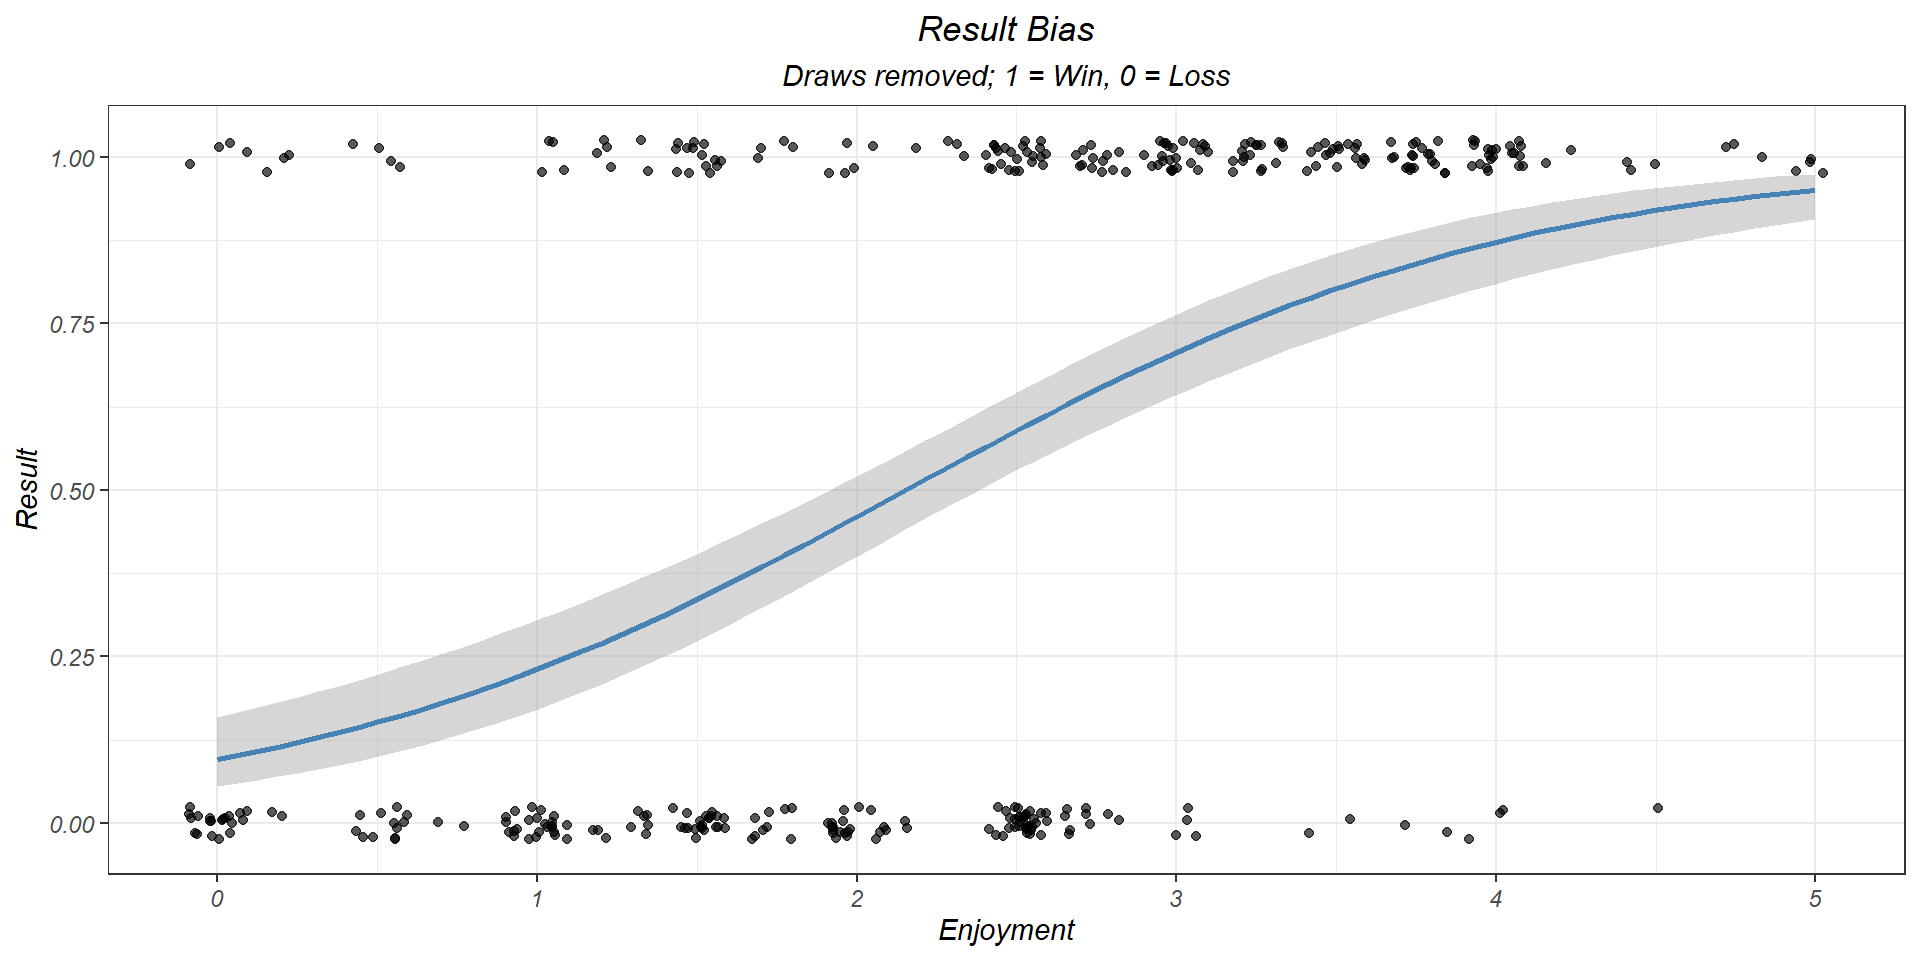
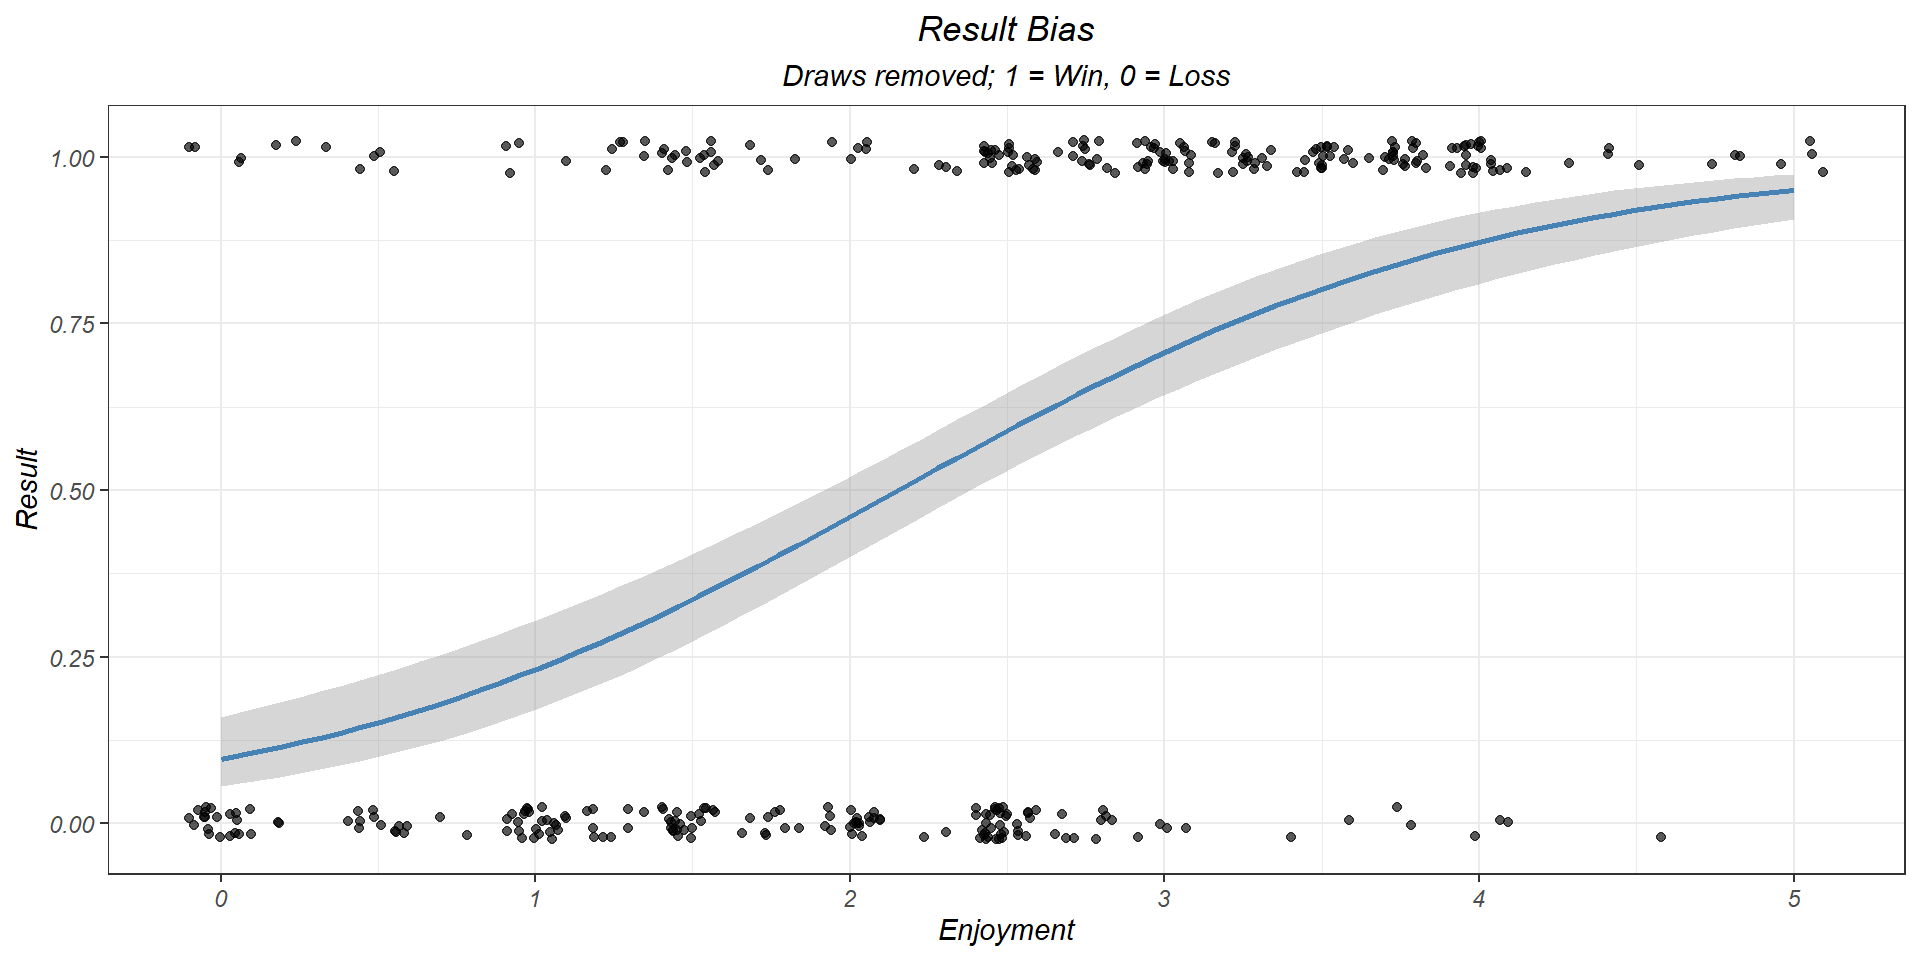
basil redo

diff --git a/CompAnalysis_Basil.html b/CompAnalysis_Basil.html
@@ -283,12 +283,12 @@ $(document).ready(function () {
   </script>
 </div>
 <p><strong>Map Rankings</strong>
-<img src="CompAnalysis_Basil_files/figure-html/unnamed-chunk-5-1.png" width="960" /></p>
+<img src="CompAnalysis_Basil_files/figure-html/unnamed-chunk-19-1.png" width="960" /></p>
 <p><strong>Enjoyment &amp; Result Bias</strong><br />
 Winrate and enjoyment are strongly correlated
-<img src="CompAnalysis_Basil_files/figure-html/unnamed-chunk-6-1.png" width="960" /><img src="CompAnalysis_Basil_files/figure-html/unnamed-chunk-6-2.png" width="960" /></p>
+<img src="CompAnalysis_Basil_files/figure-html/unnamed-chunk-20-1.png" width="960" /><img src="CompAnalysis_Basil_files/figure-html/unnamed-chunk-20-2.png" width="960" /></p>
 <p><strong>Variability throughout the week</strong>
-<img src="CompAnalysis_Basil_files/figure-html/unnamed-chunk-7-1.png" width="960" /></p>
+<img src="CompAnalysis_Basil_files/figure-html/unnamed-chunk-21-1.png" width="960" /></p>
 <p><strong>Does winrate vary throughout the week?</strong></p>
 <pre><code>## Analysis of Deviance Table (Type II tests)
 ## 
@@ -296,7 +296,7 @@ Winrate and enjoyment are strongly correlated
 ##         LR Chisq Df Pr(&gt;Chisq)
 ## Weekday   3.0414  4     0.5509</code></pre>
 <p><strong>Flex queue: Role probability throughout the week</strong></p>
-<p><img src="CompAnalysis_Basil_files/figure-html/unnamed-chunk-10-1.png" width="960" /></p>
+<p><img src="CompAnalysis_Basil_files/figure-html/unnamed-chunk-24-1.png" width="960" /></p>
 <p><strong>Does winrate vary between time of day?</strong><br />
 Morning: 8AM &lt;= Time &lt; 12PM<br />
 Afternoon: 12PM &lt;= Time &lt; 5PM<br />
@@ -312,7 +312,7 @@ Night: 12AM &lt;= Time &lt; 8AM<br />
 Rank disparity is calculated from (ActualRank - LobbyRank)<br />
 Therefore, positive disparity is Favoured, negative disparity is
 Underdog<br />
-<img src="CompAnalysis_Basil_files/figure-html/unnamed-chunk-12-1.png" width="960" /></p>
+<img src="CompAnalysis_Basil_files/figure-html/unnamed-chunk-26-1.png" width="960" /></p>
 <p><strong>Lobby Summary</strong><br />
 A “streak” is defined by 3 consecutive wins or losses.<br />
 If you queue when you’re on a streak, what are the quality of the
@@ -326,14 +326,14 @@ LossStreak_n = Number of games played while on a loss streak<br />
 
 <div data-pagedtable="false">
 <script data-pagedtable-source type="application/json">
-{"columns":[{"label":["Condition"],"name":[1],"type":["chr"],"align":["left"]},{"label":["Winrate"],"name":[2],"type":["dbl"],"align":["right"]},{"label":["Enjoyment"],"name":[3],"type":["dbl"],"align":["right"]},{"label":["GamesPlayed"],"name":[4],"type":["dbl"],"align":["right"]},{"label":["WinStreak_n"],"name":[5],"type":["dbl"],"align":["right"]},{"label":["LossStreak_n"],"name":[6],"type":["dbl"],"align":["right"]},{"label":["%WinStreak"],"name":[7],"type":["dbl"],"align":["right"]},{"label":["%LossStreak"],"name":[8],"type":["dbl"],"align":["right"]}],"data":[{"1":"Favoured","2":"54.17","3":"2.92","4":"24","5":"3","6":"1","7":"33.33","8":"50"},{"1":"Underdog","2":"69.23","3":"3.38","4":"13","5":"5","6":"1","7":"55.56","8":"50"},{"1":"Exact","2":"71.43","3":"3.14","4":"7","5":"1","6":"0","7":"11.11","8":"0"}],"options":{"columns":{"min":{},"max":[10]},"rows":{"min":[10],"max":[10]},"pages":{}}}
+{"columns":[{"label":["Condition"],"name":[1],"type":["chr"],"align":["left"]},{"label":["Winrate"],"name":[2],"type":["dbl"],"align":["right"]},{"label":["Enjoyment"],"name":[3],"type":["dbl"],"align":["right"]},{"label":["GamesPlayed"],"name":[4],"type":["dbl"],"align":["right"]},{"label":["WinStreak_n"],"name":[5],"type":["dbl"],"align":["right"]},{"label":["LossStreak_n"],"name":[6],"type":["dbl"],"align":["right"]},{"label":["%WinStreak"],"name":[7],"type":["dbl"],"align":["right"]},{"label":["%LossStreak"],"name":[8],"type":["dbl"],"align":["right"]}],"data":[{"1":"Favoured","2":"54.17","3":"2.92","4":"24","5":"3","6":"1","7":"42.86","8":"100"},{"1":"Exact","2":"66.67","3":"3.17","4":"6","5":"1","6":"0","7":"14.29","8":"0"},{"1":"Underdog","2":"75.00","3":"3.12","4":"4","5":"3","6":"0","7":"42.86","8":"0"}],"options":{"columns":{"min":{},"max":[10]},"rows":{"min":[10],"max":[10]},"pages":{}}}
   </script>
 </div>
 <p><strong>Rank over time</strong><br />
 A “tour” is in reference to the win-loss record in-game, where either 5
 wins or 15 losses are needed to readjust rank<br />
 Example: Tour 4.12 means Season 4, tour 12
-<img src="CompAnalysis_Basil_files/figure-html/unnamed-chunk-15-1.png" width="960" /><img src="CompAnalysis_Basil_files/figure-html/unnamed-chunk-15-2.png" width="960" /><img src="CompAnalysis_Basil_files/figure-html/unnamed-chunk-15-3.png" width="960" /></p>
+<img src="CompAnalysis_Basil_files/figure-html/unnamed-chunk-29-1.png" width="960" /><img src="CompAnalysis_Basil_files/figure-html/unnamed-chunk-29-2.png" width="960" /><img src="CompAnalysis_Basil_files/figure-html/unnamed-chunk-29-3.png" width="960" /></p>
 
 
 

diff --git a/index.html b/index.html
@@ -269,7 +269,7 @@ $(document).ready(function () {
 
 
 <p><strong>Last updated:</strong></p>
-<pre><code>## [1] &quot;2023-07-01 18:25:51 EDT&quot;</code></pre>
+<pre><code>## [1] &quot;2023-07-01 18:34:51 EDT&quot;</code></pre>
 
 
 
